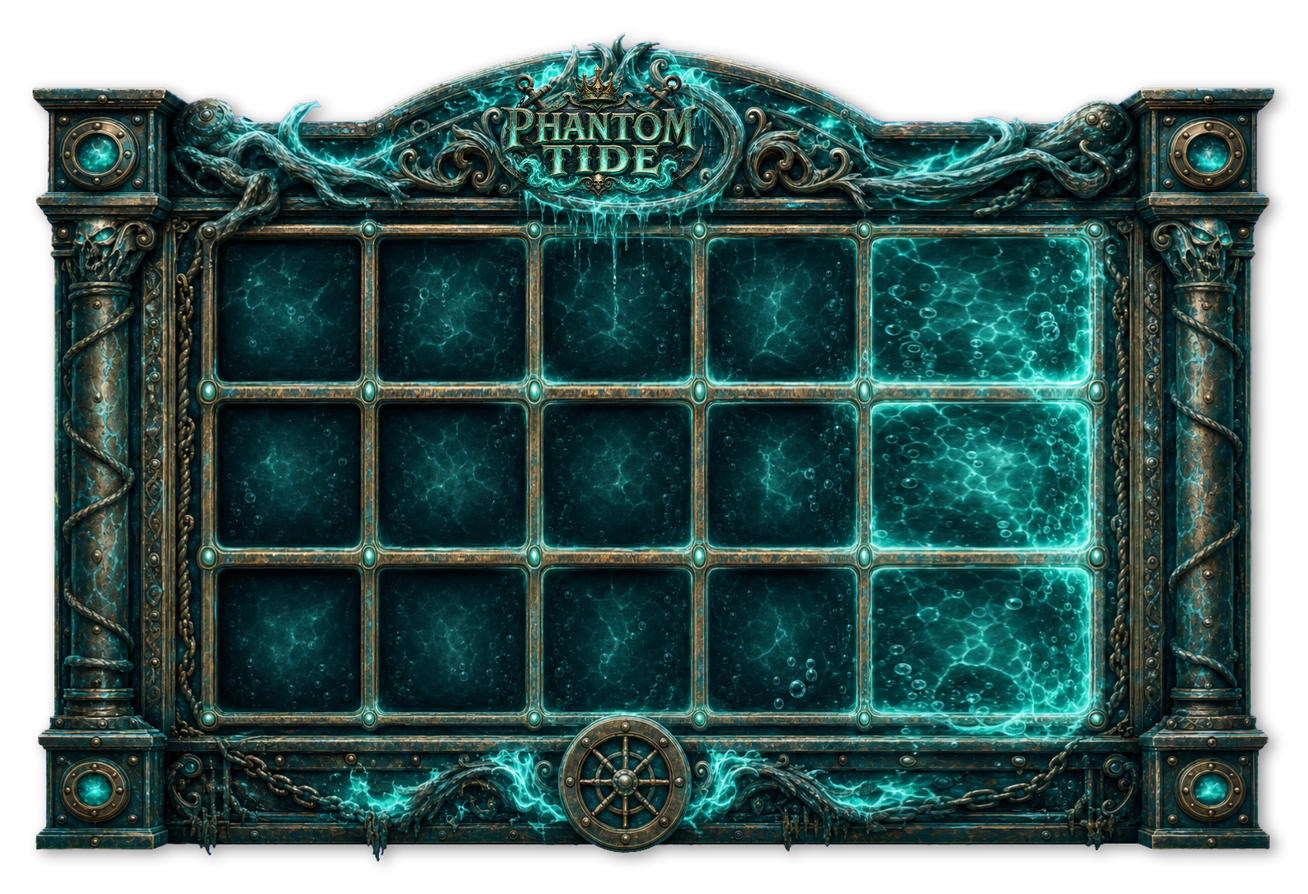
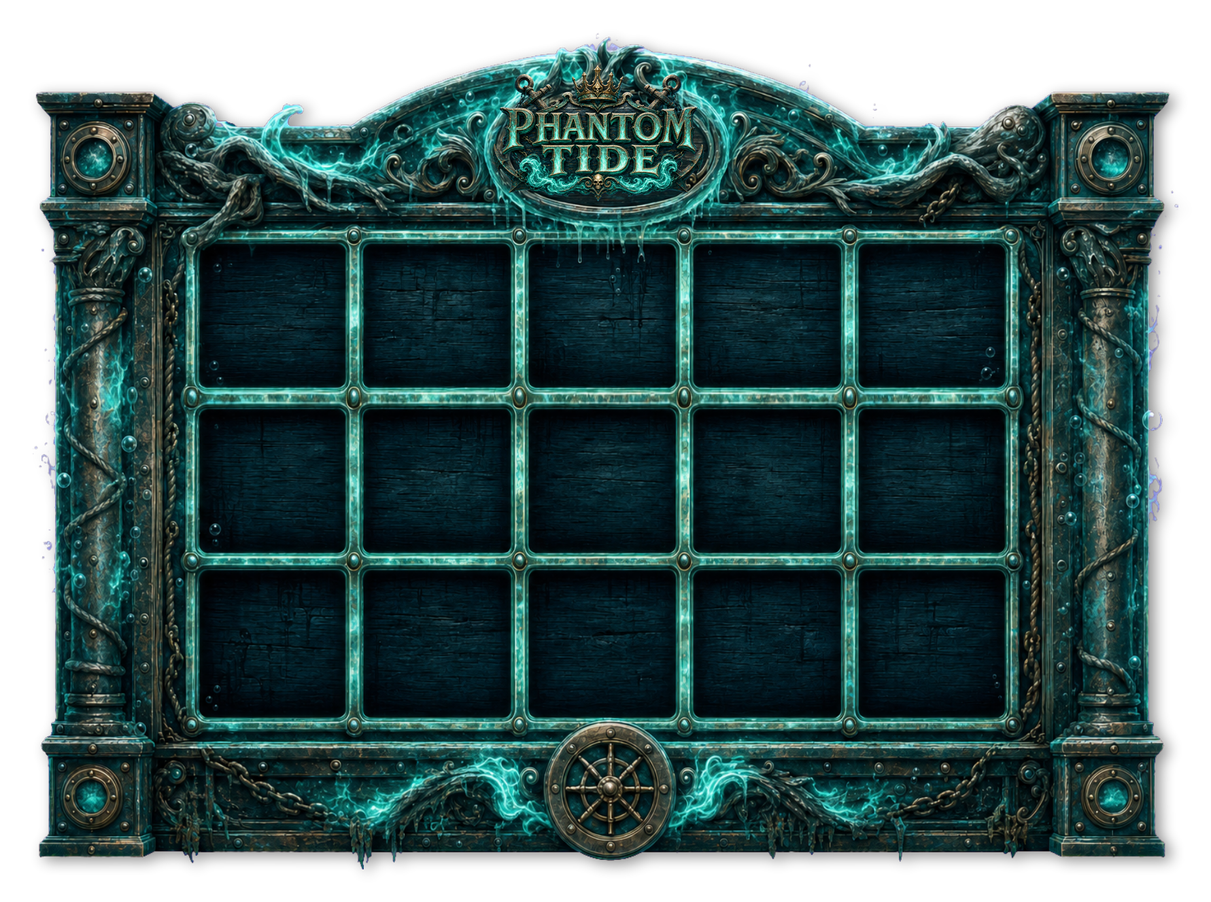
Phantom Tide: regenerated free-spins board with five equal columns

diff --git a/src/view/phaserview/class/FrameClass.js b/src/view/phaserview/class/FrameClass.js
@@ -61,7 +61,7 @@ var frameClass = function(game, group) {
         this._frameBg.width = 850;
         this._frameBg.height = 510;
         this._frameBg.visible = false;   // the generated board has its own cell slots
-        this.addBoard('board-free', 186, 7);
+        this.addBoard('board-free', 197, 2);
         this._frame_t = game.add.sprite(this._posX+10, this._posY-3, this._langName, 'ReelFr-Feat-T.png', this._grpFrame);
         this._frame_l = game.add.sprite(this._frame_t.x-12, this._frame_t.y+66, this._langName, 'ReelFr-Feat-L.png', this._grpFrame);
         this._frame_r = game.add.sprite(this._frame_t.x+849, this._frame_t.y+66, this._langName, 'ReelFr-Feat-R.png', this._grpFrame);
